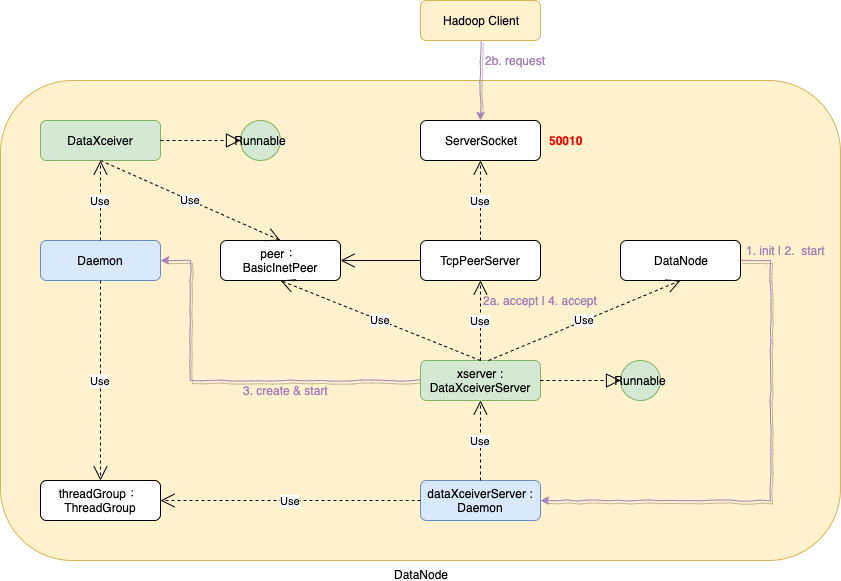
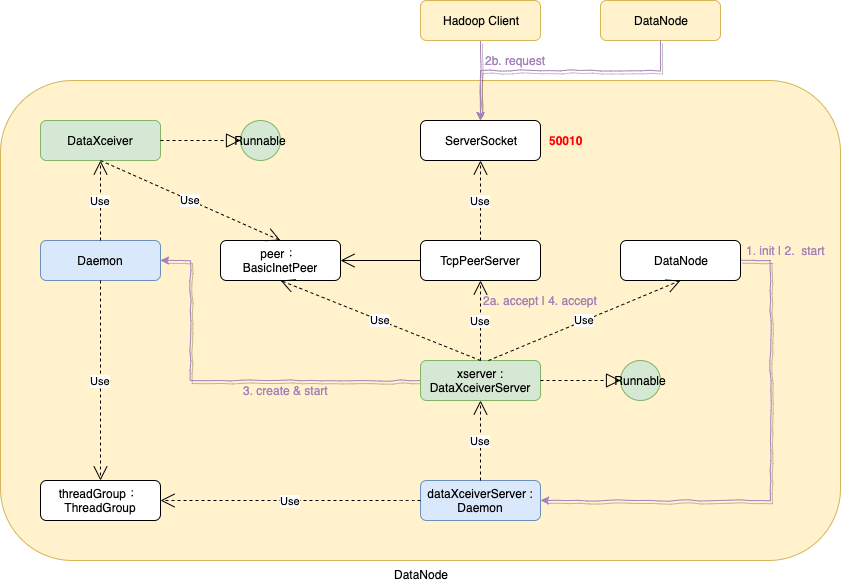
1、修改dataxceiver图；2、DataNode httpserver & infoserver

diff --git a/src/bigdata/hadoop/hdfs/HDFS源码分析.md b/src/bigdata/hadoop/hdfs/HDFS源码分析.md
@@ -350,7 +350,7 @@ idea.max.intellisense.filesize=5000
 
 # NameNode
 
-## HttpServer2
+## NameNodeHttpServer
 
 对外提供HTTP服务，用户可以通过浏览器访问元数据、文件和日志等。
 
@@ -494,28 +494,32 @@ idea.max.intellisense.filesize=5000
 
 ## DataXceiver
 
-负责同Hadoop Client交互，读写数据
+DataNode维护了一个server socket，用于同 Hadoop Client 或 其他 DataNode 读写数据
 
 ![hdfs_datanode_dataxceiver](HDFS源码分析.assets/hdfs_datanode_dataxceiver.png)
 
 1. DataNode初始化守护线程Daemon实例dataXceiverServer，其执行的工作任务是DataXceiverServer实例xserver，此工作任务线程常驻内存
 2. DataNode启动守护线程dataXceiverServer
    - 工作任务xserver开始运行，xserver调用TcpPeerServer实例peerServer的accept方法，其委托ServerSocket监听50010端口，等待Hadoop Client请求而阻塞
-   - Hadoop Client向DataNode发送数据，peerServer将ServerSocket返回的socket封装为BasicInetPeer实例peer传递给xserver
+   - Hadoop Client 或 其他 DataNode 向DataNode发送数据，peerServer将ServerSocket返回的socket封装为BasicInetPeer实例peer传递给xserver
 3. xserver将请求peer分配守护线程并启动，其执行的工作任务是DataXceiver实例，负责读写数据
 4. xserver继续调用peerServer的accept方法
 
 
 
+## HttpServer
+
+向集群内部提供http服务
+
+![hdfs_datanode_httpserver](HDFS源码分析.assets/hdfs_datanode_httpserver.png)
 
 
-## DataNodeHttpServer
 
-httpserver2 向NN内部提供http服务
-
-50075（http）
-
-50475（https）
+1. DataNode通过HttpServer2.Builder构建HttpServer2，HttpServer2对jetty封装，提供web容器功能，其端口由系统动态生成。配置内部servlet
+   - /streamFile/* 对应 StreamFile
+   - /getFileChecksum/* 对应 FileChecksumServlets.GetServlet
+   - /blockScannerReport 对应 BlockScanner.Servlet
+2. DataNode创建DatanodeHttpServer，DatanodeHttpServer对netty封装，提供并发性更高的网络通信框架，其http端口是50075，https端口是50475。
 
 
 
